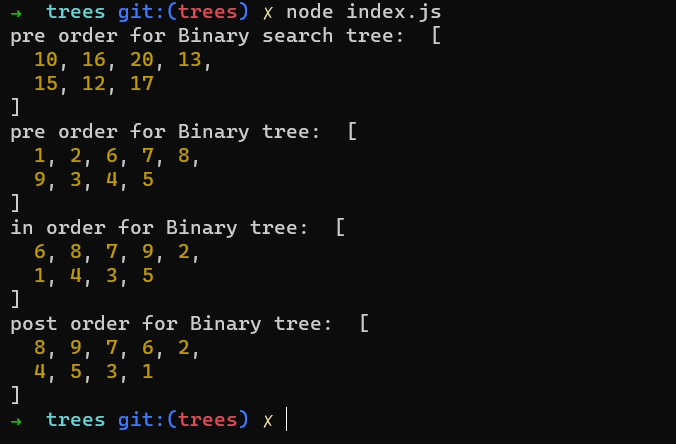
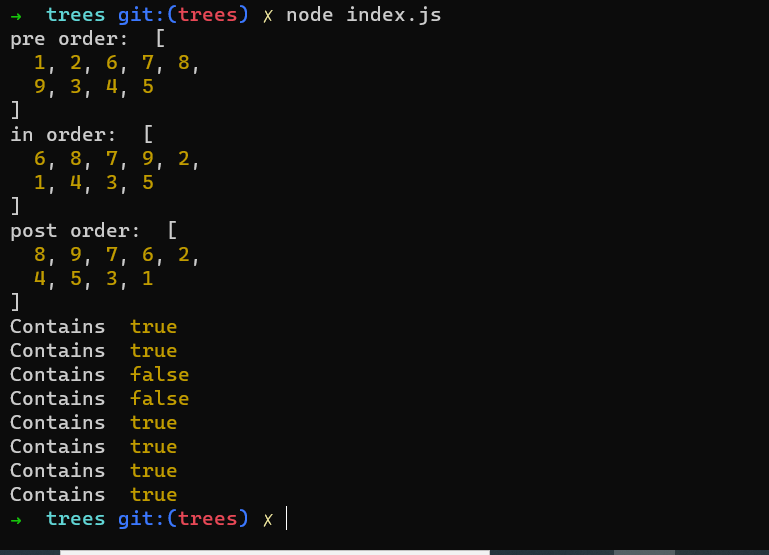
trees

diff --git a/javascript/datastructure-challenges/trees/__test__/binary-tree.test.js b/javascript/datastructure-challenges/trees/__test__/binary-tree.test.js
@@ -1,10 +1,14 @@
 'use strict';
-const BinaryTree = require('../binary-tree');
+
+const {
+  BinaryTree,
+  BinaryTreeSearch
+} = require('../binary-tree');
 const Node = require('../node');
+let tree;
 
-let tree = null;
+describe('Binary Tree Tests', () => {
 
-describe("Binary Tree", () => {
   beforeAll(() => {
     let one = new Node(1);
     let two = new Node(2);
@@ -26,26 +30,62 @@ describe("Binary Tree", () => {
     three.right = five;
 
     tree = new BinaryTree(one);
+    // bstTree = new BinaryTreeSearch();
   });
 
-  test('constructor', () => {
+  test('Can successfully instantiate an empty tree', () => {
     const newTree = new BinaryTree();
     expect(newTree.root).toBeNull();
     expect(tree.root.value).toEqual(1);
   });
-  test('preOrder', () => {
+
+  test('Can successfully instantiate a tree with a single root node', () => {
+    let a = new Node('a');
+    const newTree = new BinaryTree(a);
+    expect(newTree.root.value).toEqual('a');
+    expect(newTree.root.left).toBeNull();
+    expect(newTree.root.right).toBeNull();
+  });
+
+  test('For a Binary Search Tree, can successfully add a left child and right child properly to a node', () => {
+    const bstTree = new BinaryTreeSearch();
+    bstTree.add(20);
+    bstTree.add(10);
+    bstTree.add(30);
+    expect(bstTree.root.value).toEqual(20);
+    // console.log({bstTree});
+    expect(bstTree.root.left.value).toEqual(10);
+    expect(bstTree.root.right.value).toEqual(30);
+  });
+
+  test('Can successfully return a collection from a preorder traversal', () => {
     let expectedOutput = [1, 2, 6, 7, 8, 9, 3, 4, 5];
     let preOrder = tree.preOrder();
     expect(preOrder).toEqual(expectedOutput);
   });
-  test('inOrder', () => {
+
+  test('Can successfully return a collection from an inorder traversal', () => {
     let expectedOutput = [6, 8, 7, 9, 2, 1, 4, 3, 5];
     let inOrder = tree.inOrder();
     expect(inOrder).toEqual(expectedOutput);
   });
-  test('postOrder', () => {
+
+  test('Can successfully return a collection from a postorder traversal', () => {
     let expectedOutput = [8, 9, 7, 6, 2, 4, 5, 3, 1];
     let postOrder = tree.postOrder();
     expect(postOrder).toEqual(expectedOutput);
   });
+
+  test('Returns true / false for the contains method, given an existing or non-existing node value', () => {
+    const bstTree = new BinaryTreeSearch();
+    bstTree.add(20);
+    bstTree.add(10);
+    bstTree.add(30);
+    expect(bstTree.contains(10)).toBeTruthy();
+    expect(bstTree.contains(20)).toBeTruthy();
+    expect(bstTree.contains(30)).toBeTruthy();
+    expect(bstTree.contains(40)).toBeFalsy();
+    expect(bstTree.contains(50)).toBeFalsy();
+  });
+
 });

diff --git a/javascript/datastructure-challenges/trees/binary-tree.js b/javascript/datastructure-challenges/trees/binary-tree.js
@@ -1,41 +1,44 @@
 'use strict';
+
+const Node = require('./node');
+
 class BinaryTree {
   constructor(root = null) {
     this.root = root;
   }
-  //root - left - right
+  // Pre-order >> root - left - right
   preOrder() {
     let result = [];
     let traverse = (node) => {
       result.push(node.value);
-      // if left go left
+      //if left go left
       if (node.left) traverse(node.left);
-      // if right go right
+      //if right go right
       if (node.right) traverse(node.right);
     };
     traverse(this.root);
     return result;
   }
-  // left - root - right
+  // In-Order >> left - root - right
   inOrder() {
     let result = [];
     let traverse = (node) => {
-      // if left go left
+      //if left go left
       if (node.left) traverse(node.left);
       result.push(node.value);
-      // if right go right
+      //if right go right
       if (node.right) traverse(node.right);
     };
     traverse(this.root);
     return result;
   }
-  //left - right - root
+  // Post-Order >> left - right - root
   postOrder() {
     let result = [];
     let traverse = (node) => {
-      // if left go left
+      //if left go left
       if (node.left) traverse(node.left);
-      // if right go right
+      //if right go right
       if (node.right) traverse(node.right);
       result.push(node.value);
     };
@@ -44,4 +47,51 @@ class BinaryTree {
   }
 }
 
-module.exports = BinaryTree;
+class BinaryTreeSearch extends BinaryTree {
+  add(value) {
+    const node = new Node(value);
+    if (!this.root) {
+      this.root = node;
+    }
+    let current = this.root;
+
+    function addNode() {
+      if (value === current.value) return undefined;
+      if (value < current.value) {
+        if (!current.left) {
+          current.left = node;
+        }
+        current = current.left; // if there is a node move to left
+        addNode();
+      } else if (value > current.value) {
+        if (!current.right) {
+          current.right = node;
+        }
+        current = current.right; // if there is a node move to right
+        addNode();
+      }
+    }
+    addNode();
+  }
+  contains(value) {
+    let current = this.root;
+    while (current !== null) {
+      if (current.value === value) {
+        // Found the element!
+        return true;
+      } else if (value < current.value) {
+        // Go Left as value is smaller than parent
+        current = current.left;
+      } else {
+        // Go right as value is greater than parent
+        current = current.right;
+      }
+    }
+    return false;
+  }
+}
+
+module.exports = {
+  BinaryTree,
+  BinaryTreeSearch
+};

diff --git a/javascript/datastructure-challenges/trees/index.js b/javascript/datastructure-challenges/trees/index.js
@@ -1,37 +1,9 @@
 'use strict';
-const BinaryTree = require('./binary-tree');
-const BinarySearchTree = require('./binary-tree');
+const {BinaryTree , BinaryTreeSearch} = require('./binary-tree');
 const Node = require('./node');
 
-// binary search tree
-let ten = new Node(10);
-let sixteen = new Node(16);
-let twenty = new Node(20);
-let thirty = new Node(13);
-let fivteen = new Node(15);
-let twelve = new Node(12);
-let seventeen = new Node(17);
-
-ten.left = sixteen;
-ten.right = fivteen;
-sixteen.left = twenty;
-sixteen.right = thirty;
-fivteen.left = twelve;
-fivteen.right = seventeen;
-
-let tree2 = null;
-
-tree2 = new BinarySearchTree(ten);
-
-let preOrderbst = tree2.preOrder();
-console.log('pre order for Binary search tree: ', preOrderbst);
-//pre order > 10 , 16 , 20 , 13 , 15 , 12 , 17
-
-
-
-
-// binary tree
-let tree = null;
+// BinaryTree
+let tree  = null;
 
 let one = new Node(1);
 let two = new Node(2);
@@ -55,14 +27,39 @@ three.right = five;
 tree = new BinaryTree(one);
 
 let preOrder = tree.preOrder();
-console.log('pre order for Binary tree: ', preOrder);
-// //pre order > 1 , 2 , 6 , 7 , 8 , 9 , 3 , 4 , 5
+console.log('pre order: ', preOrder);
+//pre order > 1 , 2 , 6 , 7 , 8 , 9 , 3 , 4 , 5
 
 let inOrder = tree.inOrder();
-console.log('in order for Binary tree: ', inOrder);
+console.log('in order: ', inOrder);
 //pre order > 6 , 8 , 7 , 9 , 2 , 1 , 4 , 3 , 5
 
 
 let postOrder = tree.postOrder();
-console.log('post order for Binary tree: ', postOrder);
+console.log('post order: ', postOrder);
 //pre order > 8 , 9 , 7 , 6 , 2 , 4 , 5 , 3 , 1
+
+
+// BinaryTreeSearch
+
+
+let bstTree = new BinaryTreeSearch();
+
+bstTree.add(50);
+bstTree.add(60);
+bstTree.add(70);
+bstTree.add(40);
+bstTree.add(20);
+bstTree.add(10);
+
+
+console.log('Contains ', bstTree.contains(10));
+console.log('Contains ', bstTree.contains(20));
+console.log('Contains ', bstTree.contains(30));
+console.log('Contains ', bstTree.contains(5));
+console.log('Contains ', bstTree.contains(40));
+console.log('Contains ', bstTree.contains(50));
+console.log('Contains ', bstTree.contains(60));
+console.log('Contains ', bstTree.contains(70));
+
+

diff --git a/javascript/datastructure-challenges/trees/README.md b/javascript/datastructure-challenges/trees/README.md
@@ -1,4 +1,67 @@
-## Tree 
+## Tree :
+A tree data structure is defined as a collection of objects or entities known as nodes that are linked together to represent or simulate hierarchy.
+
+A tree data structure is a non-linear data structure because it does not store in a sequential manner. It is a hierarchical structure as elements in a Tree are arranged in multiple levels.
+
+In the Tree data structure, the topmost node is known as a root node. Each node contains some data, and data can be of any type.
+
+Each node contains some data and the link or reference of other nodes that can be called children.
+
+### **Binary Tree**
+
+ special datastructure used for data storage purposes. A binary tree has a special condition that each node can have a maximum of two children. A binary tree has the benefits of both an ordered array and a linked list as search is as quick as in a sorted array and insertion or deletion operation are as fast as in linked list.
+
+### **Binary Search Tree**
+Binary Search tree exhibits a special behavior. A node's left child must have a value less than its parent's value and the node's right child must have a value greater than its parent value.
+
+## Challenge
+<!-- Description of the challenge -->
+### Binary Tree and BST Implementation
+- Node
+  - Create a Node class that has properties for the value stored in the node, the left child node, and the right child node.
+- Binary Tree
+  - Create a Binary Tree class
+  - Define a method for each of the depth first traversals:
+    - pre order
+    - in order
+    - post order which returns an array of the values, ordered appropriately.
+- Binary Search Tree
+  - Create a Binary Search Tree class
+    - This class should be a sub-class (or your languages equivalent) of the Binary Tree Class, with the following additional methods:
+  - Add
+    - Arguments: value
+    - Return: nothing
+    - Adds a new node with that value in the correct location in the binary search tree.
+  - Contains
+    - Argument: value
+    - Returns: boolean indicating whether or not the value is in the tree at least once.
+
+## Approach & Efficiency
+<!-- What approach did you take? Why? What is the Big O space/time for this approach? -->
+
+For `preOrder`, `inOrder`, `postOrder` and `add` methods all traverse the tree recursively
+
+Big O:
+
+Time complexity O(n)
+
+Space complexity O(n)
+
+For `contains` method :
+
+Big O:
+
+Time complexity O (log n)
+
+Space complexity O(1)
+
+## API
+<!-- Description of each method publicly available in each of your trees -->
+- `preOrder()`: Traverse over the tree >> root, left, right.
+- `inOrder()`: Traverse over the tree >> left, root, right.
+- `postOrder()`: Traverse over the tree >> left, right, root.
+- `add(value)`: Adds a new node with that value in the correct location in the binary search tree.
+- `contains(value)`: indicating whether or not the value is in the tree at least once.
 
 ![img](./assets/test%20trees.PNG)
 ![img](./assets/output%20binary%20search%20tree%20and%20binary%20tree.PNG)
